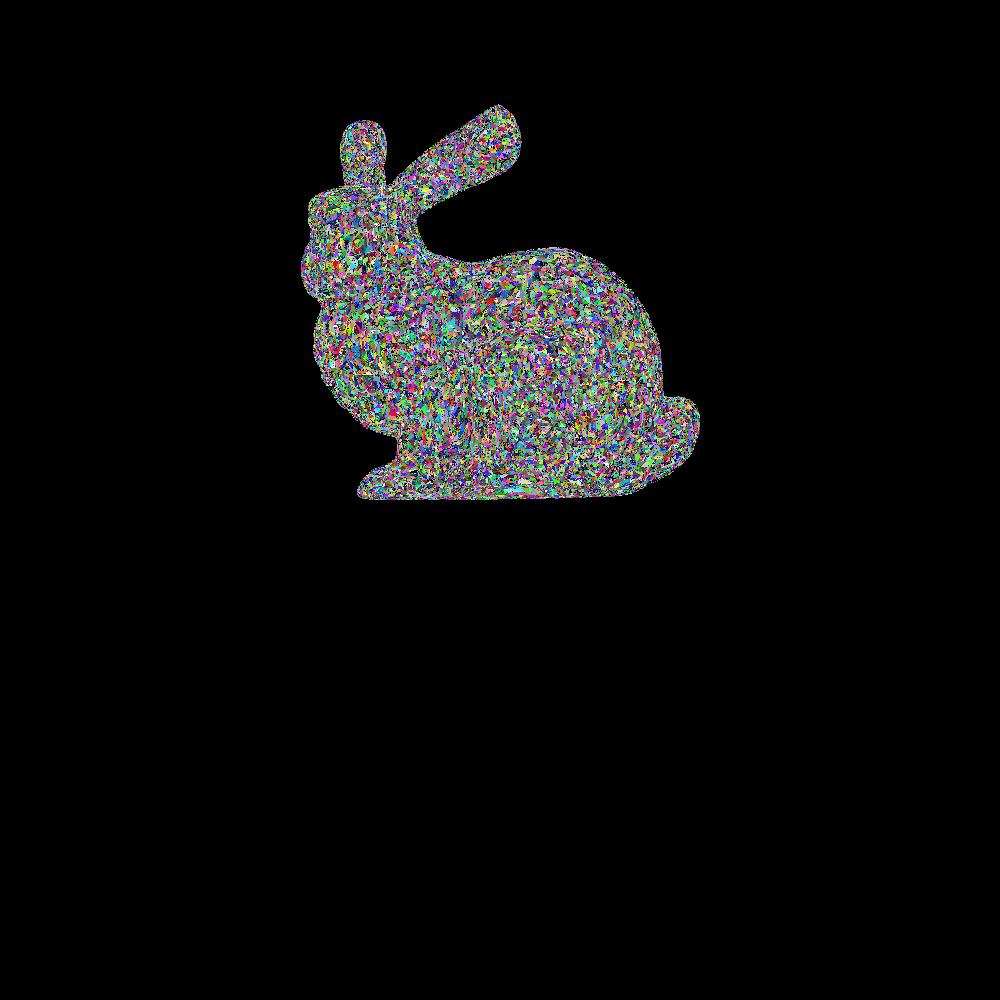
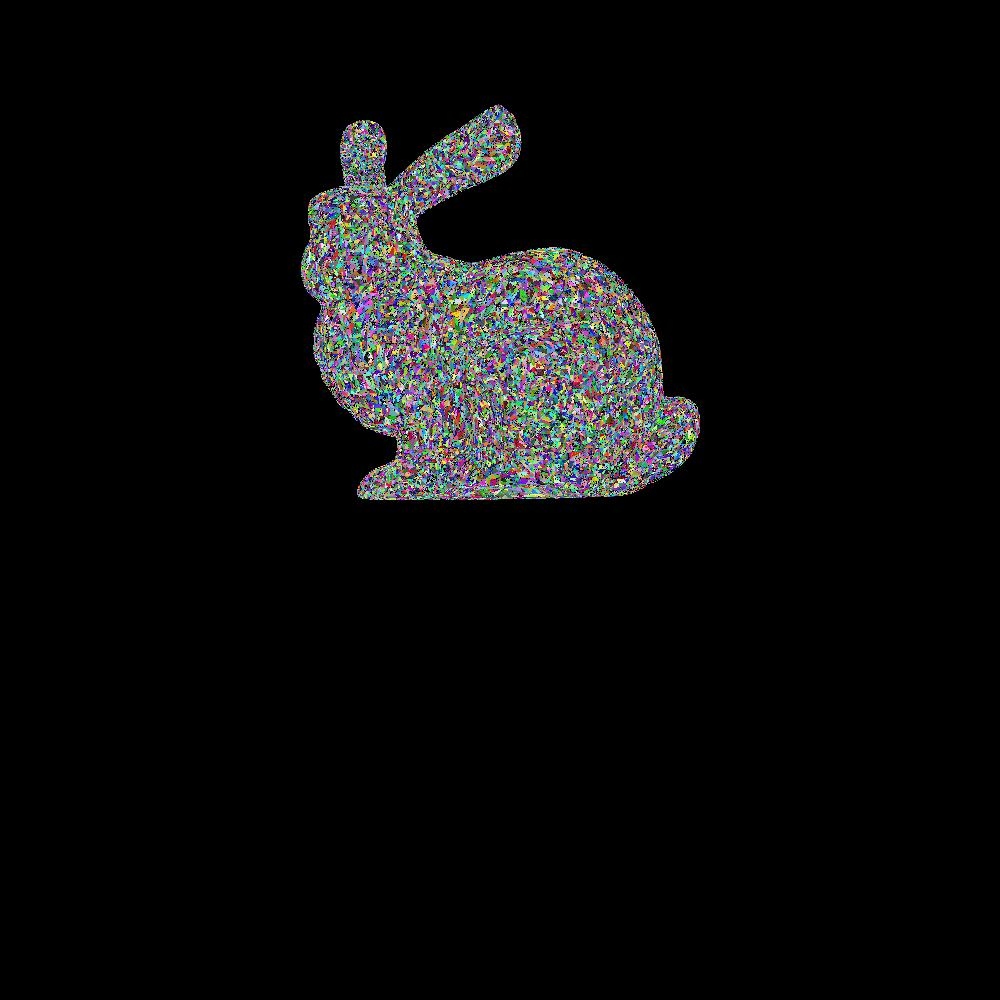
tasks 12-15 added

Changed region(s): [[0.279, 0.093, 0.713, 0.527]]

diff --git a/model.py b/model.py
@@ -15,12 +15,26 @@ def correct_points(x0: int, y0: int, x1: int, y1: int, steep=False):
     return x0, x1, y0, y1, steep
 
 
+def get_barycentric_coordinates(x: int, y: int, x0: float, y0: float, x1: float, y1: float, x2: float,
+                                y2: float):
+    lambda0 = ((x1 - x2) * (y - y2) - (y1 - y2) * (x - x2)) / ((x1 - x2) * (y0 - y2) - (y1 - y2) * (x0 - x2))
+    lambda1 = ((x2 - x0) * (y - y0) - (y2 - y0) * (x - x0)) / ((x2 - x0) * (y1 - y0) - (y2 - y0) * (x1 - x0))
+    lambda2 = ((x0 - x1) * (y - y1) - (y0 - y1) * (x - x1)) / ((x0 - x1) * (y2 - y1) - (y0 - y1) * (x2 - x1))
+    return np.array([lambda0, lambda1, lambda2])
+
+
+def cos_angle(normal, vect_l):
+    return np.dot(normal, vect_l) / (np.linalg.norm(normal) * np.linalg.norm(vect_l))
+
+
 class Picture:
 
     def __init__(self, h: int = 256, w: int = 256, color: bool = False):
         self.h = h
         self.w = w
         self.color = color
+        self.z_buffer = np.zeros((h, w))
+
         if color:
             self.image_array = np.zeros((h, w, 3), dtype='uint8')
         else:
@@ -130,7 +144,7 @@ class RenderPicture:
             except:
                 continue
             if v == 'v':
-                vertex.append([float(x), float(y)])
+                vertex.append([float(x), float(y), float(z)])
             if v == 'f':
                 polygon.append([int(x.split("/")[0]) - 1, int(y.split("/")[0]) - 1, int(z.split("/")[0]) - 1])
         f.close()
@@ -154,8 +168,12 @@ class RenderPicture:
     def draw_triangle(self, height, weight, color: bool = False, k=4000, b=500):
         picture = Picture(height, weight, color)
 
+        vect_l = [0, 0, 1]
+
         for p in self.polygon:
-            triangle_color = [random.randint(0, 255), random.randint(0, 255), random.randint(0, 255)]
+            # for tasks 10, 11
+            triangle_color_rgb = [random.randint(0, 255), random.randint(0, 255), random.randint(0, 255)]
+            triangle_color_gray = random.randint(0, 255)
 
             x0 = k * self.vertex[p[0]][0] + b
             y0 = -k * self.vertex[p[0]][1] + b
@@ -163,6 +181,14 @@ class RenderPicture:
             y1 = -k * self.vertex[p[1]][1] + b
             x2 = k * self.vertex[p[2]][0] + b
             y2 = -k * self.vertex[p[2]][1] + b
+
+            z0 = k * self.vertex[p[0]][2] + b
+            z1 = k * self.vertex[p[1]][2] + b
+            z2 = k * self.vertex[p[2]][2] + b
+
+            normal = [(y1 - y0) * (z1 - z2) - (y1 - y2) * (z1 - z0),
+                      (z1 - z0) * (x1 - x2) - (x1 - x0) * (z1 - z2),
+                      (x1 - x0) * (y1 - y2) - (x1 - x2) * (y1 - y0)]
 
             x_min = min(x0, x1, x2)
             if x_min < 0:
@@ -177,25 +203,28 @@ class RenderPicture:
             if y_max < 0:
                 y_max = 0
 
-            for x in range(int(x_min), int(x_max) + 1):
-                for y in range(int(y_min), int(y_max) + 1):
+            cos_ang = cos_angle(normal, vect_l)
 
-                    lambdas = get_barycentric_coordinates(x, y, x0, y0, x1, y1, x2, y2)
+            if cos_ang < 0:
+                for x in range(int(x_min), int(x_max) + 1):
+                    for y in range(int(y_min), int(y_max) + 1):
 
-                    if np.sum(lambdas) == 1:
-                        if np.all(lambdas >= 0):
-                            if picture.h > x >= 0 and picture.w > y >= 0:
-                                if not color:
-                                    picture.set_pixel(x, y, 255)
-                                else:
-                                    picture.set_pixel(x, y, triangle_color)
+                        lambdas = get_barycentric_coordinates(x, y, x0, y0, x1, y1, x2, y2)
+                        summ = np.sum(lambdas)
+                        if summ == 1:
+                            if np.all(lambdas >= 0):
 
-            self.vertex_picture = picture
+                                # z-buffer
+                                new_z = lambdas[0] * z0 + lambdas[1] * z1 + lambdas[2] * z2
+
+                                if picture.h > x >= 0 and picture.w > y >= 0:
+                                    if new_z > picture.z_buffer[x][y]:
+                                        picture.z_buffer[x][y] = new_z
+                                        if not color:
+                                            picture.set_pixel(x, y, triangle_color_gray)
+                                        else:
+                                            picture.set_pixel(x, y, [255*cos_ang, 0, 0])
+
+                self.vertex_picture = picture
 
 
-def get_barycentric_coordinates(x: int, y: int, x0: float, y0: float, x1: float, y1: float, x2: float,
-                                y2: float):
-    lambda0 = ((x1 - x2) * (y - y2) - (y1 - y2) * (x - x2)) / ((x1 - x2) * (y0 - y2) - (y1 - y2) * (x0 - x2))
-    lambda1 = ((x2 - x0) * (y - y0) - (y2 - y0) * (x - x0)) / ((x2 - x0) * (y1 - y0) - (y2 - y0) * (x1 - x0))
-    lambda2 = ((x0 - x1) * (y - y1) - (y0 - y1) * (x - x1)) / ((x0 - x1) * (y2 - y1) - (y0 - y1) * (x2 - x1))
-    return np.array([lambda0, lambda1, lambda2])

diff --git a/main.py b/main.py
@@ -67,17 +67,41 @@ def task_9_11():
     im = RenderPicture()
     im.read_obj(file_name)
 
-    # 9
-    im.draw_triangle(height, weight)
-    im.vertex_picture.save('result/task 9.jpg')
+    # 10
+    # im.draw_triangle(height, weight)
+    # im.vertex_picture.save('result/task 10.jpg')
 
     # 11
+    # im.draw_triangle(height, weight, True)
+    # im.vertex_picture.save('result/task 11.jpg')
+
+
+def task_12_14():
+    file_name = 'model_1.obj'
+    height, weight = 1000, 1000
+
+    im = RenderPicture()
+    im.read_obj(file_name)
+
     im.draw_triangle(height, weight, True)
-    im.vertex_picture.save('result/task 11.jpg')
+    im.vertex_picture.save('result/task 14.jpg')
+
+
+def task_15():
+    file_name = 'model_1.obj'
+    height, weight = 1000, 1000
+
+    im = RenderPicture()
+    im.read_obj(file_name)
+
+    im.draw_triangle(height, weight, True)
+    im.vertex_picture.save('result/task 15.jpg')
 
 
 if __name__ == '__main__':
-    task_1()
-    task_2()
-    task_3_6()
-    task_9_11()
+    # task_1()
+    # task_2()
+    # task_3_6()
+    # task_9_11()
+    # task_12_14()
+    task_15()
